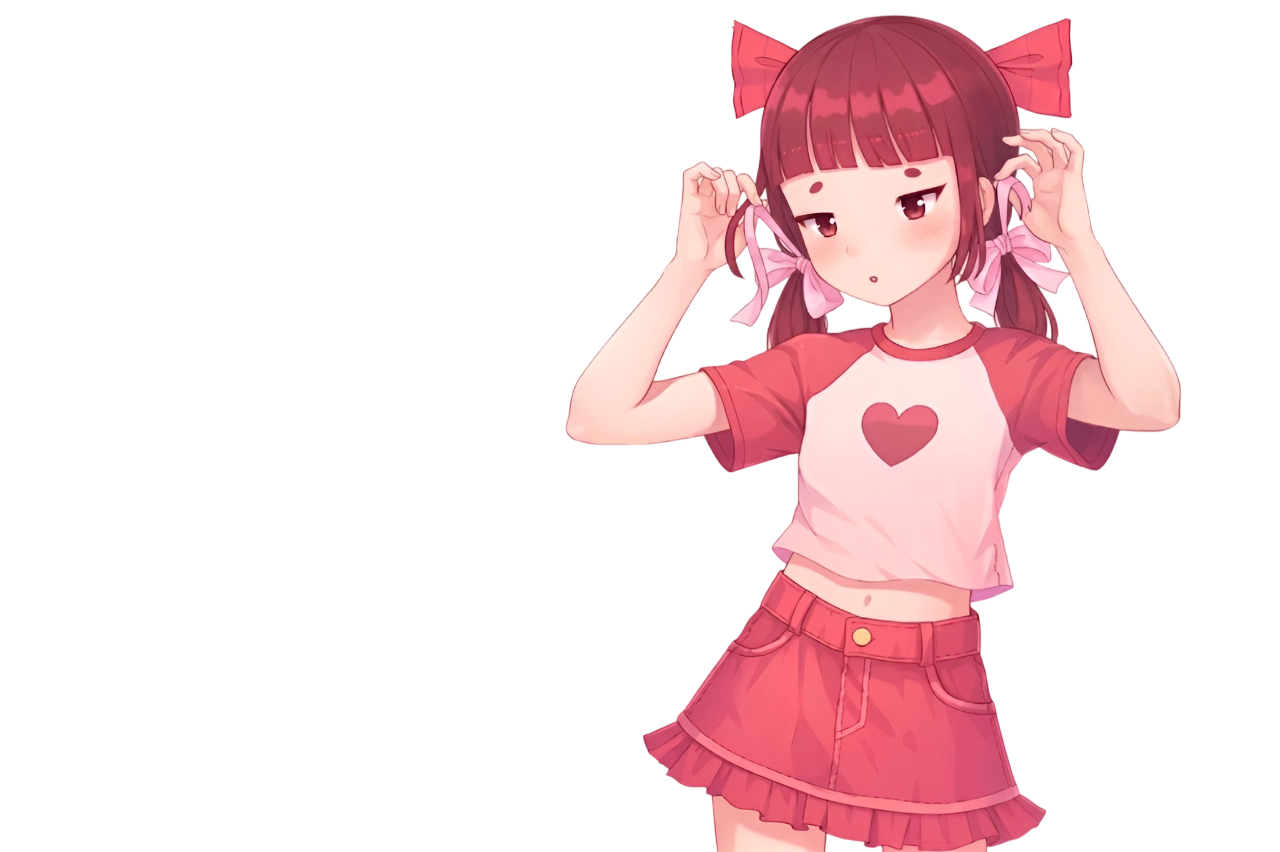
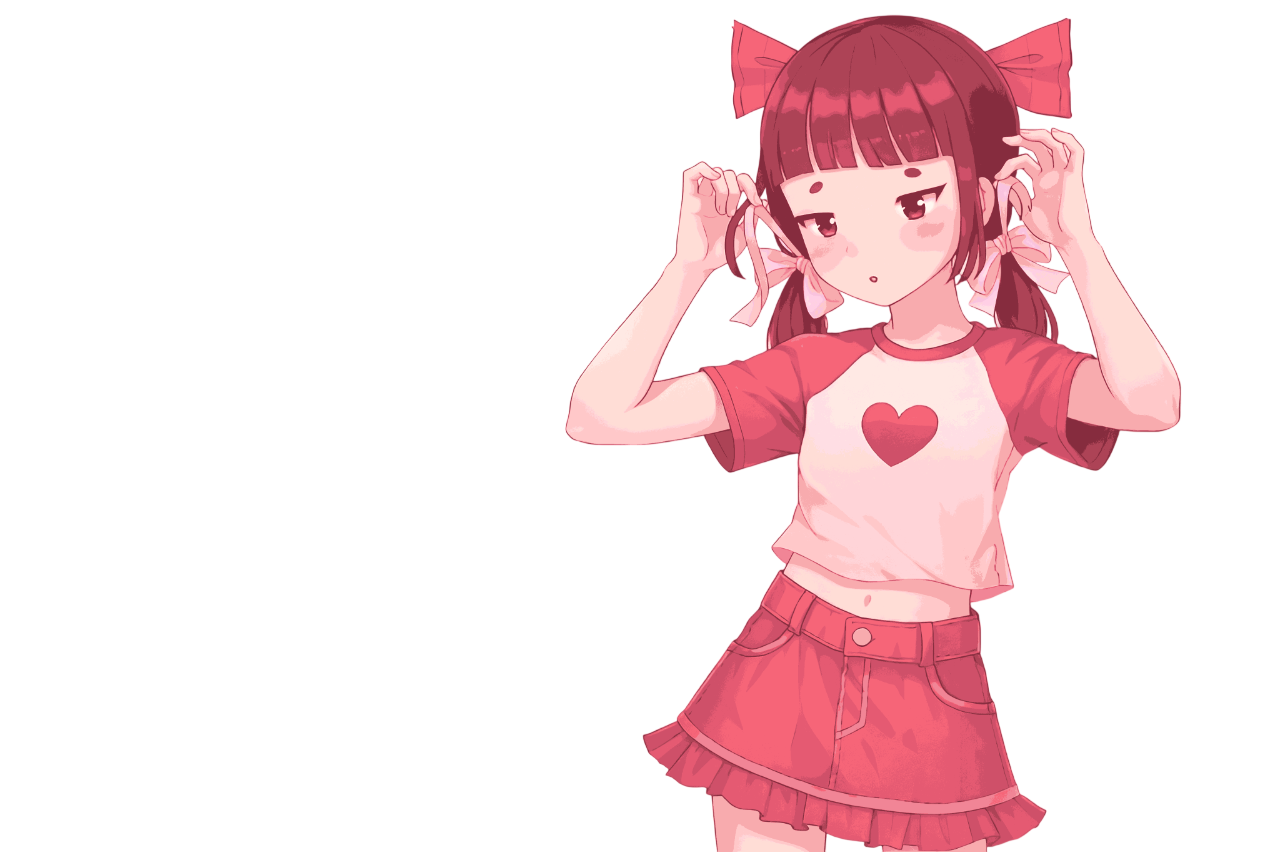
feat: make main character clickable in main menu

diff --git a/MemoryGame.Client/Views/MainMenu/MainMenuView.xaml b/MemoryGame.Client/Views/MainMenu/MainMenuView.xaml
@@ -2,16 +2,63 @@
              xmlns="http://schemas.microsoft.com/winfx/2006/xaml/presentation"
              xmlns:x="http://schemas.microsoft.com/winfx/2006/xaml"
              xmlns:loc="clr-namespace:MemoryGame.Client.Localization"
+             xmlns:controls="clr-namespace:MemoryGame.Client.Views.Controls"
              xmlns:d="http://schemas.microsoft.com/expression/blend/2008"
              xmlns:mc="http://schemas.openxmlformats.org/markup-compatibility/2006"
              mc:Ignorable="d"
              d:DesignWidth="1280" d:DesignHeight="720">
 
     <Grid>
-        <Grid.Background>
-            <ImageBrush ImageSource="/Resources/Images/Backgrounds/katya-main.png"
-                        Stretch="UniformToFill"/>
-        </Grid.Background>
+        <!-- Static background image (with everything including background) -->
+        <Image Source="/Resources/Images/Backgrounds/katya-main-background-only.png" 
+               Stretch="UniformToFill"/>
+
+        <!-- Foreground cutout character image that animates when hovered over -->
+        <controls:AlphaHitTestImage Source="/Resources/Images/Backgrounds/katya-main-no-background.png" 
+               Stretch="UniformToFill" 
+               Cursor="Hand"
+               ToolTip="Story Mode"
+               RenderTransformOrigin="0.5,0.5">
+            <controls:AlphaHitTestImage.InputBindings>
+                <MouseBinding MouseAction="LeftClick" Command="{Binding GoToStoryModeCommand}" />
+            </controls:AlphaHitTestImage.InputBindings>
+            <controls:AlphaHitTestImage.RenderTransform>
+                <ScaleTransform ScaleX="1" ScaleY="1"/>
+            </controls:AlphaHitTestImage.RenderTransform>
+            <controls:AlphaHitTestImage.Style>
+                <Style TargetType="controls:AlphaHitTestImage">
+                    <Style.Triggers>
+                        <!-- When the mouse is inside the MainMenuView, zoom in -->
+                        <Trigger Property="IsMouseOver" Value="True">
+                            <Trigger.EnterActions>
+                                <BeginStoryboard>
+                                    <Storyboard>
+                                        <DoubleAnimation Storyboard.TargetProperty="RenderTransform.ScaleX" To="1.05" Duration="0:0:0.4">
+                                            <DoubleAnimation.EasingFunction>
+                                                <QuadraticEase EasingMode="EaseOut"/>
+                                            </DoubleAnimation.EasingFunction>
+                                        </DoubleAnimation>
+                                        <DoubleAnimation Storyboard.TargetProperty="RenderTransform.ScaleY" To="1.05" Duration="0:0:0.4">
+                                            <DoubleAnimation.EasingFunction>
+                                                <QuadraticEase EasingMode="EaseOut"/>
+                                            </DoubleAnimation.EasingFunction>
+                                        </DoubleAnimation>
+                                    </Storyboard>
+                                </BeginStoryboard>
+                            </Trigger.EnterActions>
+                            <Trigger.ExitActions>
+                                <BeginStoryboard>
+                                    <Storyboard>
+                                        <DoubleAnimation Storyboard.TargetProperty="RenderTransform.ScaleX" To="1.0" Duration="0:0:0.3"/>
+                                        <DoubleAnimation Storyboard.TargetProperty="RenderTransform.ScaleY" To="1.0" Duration="0:0:0.3"/>
+                                    </Storyboard>
+                                </BeginStoryboard>
+                            </Trigger.ExitActions>
+                        </Trigger>
+                    </Style.Triggers>
+                </Style>
+            </controls:AlphaHitTestImage.Style>
+        </controls:AlphaHitTestImage>
 
         <StackPanel HorizontalAlignment="Left"
                     VerticalAlignment="Center"

diff --git a/MemoryGame.Client/Views/Controls/AlphaHitTestImage.cs b/MemoryGame.Client/Views/Controls/AlphaHitTestImage.cs
@@ -1,0 +1,46 @@
+using System;
+using System.Windows;
+using System.Windows.Controls;
+using System.Windows.Media;
+using System.Windows.Media.Imaging;
+
+namespace MemoryGame.Client.Views.Controls;
+
+/// <summary>
+/// An extended Image control that ignores totally transparent pixels when performing mouse hit testing.
+/// This allows for precise hover boundaries on character outlines.
+/// </summary>
+public class AlphaHitTestImage : Image
+{
+    protected override HitTestResult? HitTestCore(PointHitTestParameters hitTestParameters)
+    {
+        var baseResult = base.HitTestCore(hitTestParameters);
+        if (baseResult == null) return null;
+
+        if (Source is not BitmapSource source)
+            return baseResult;
+
+        try
+        {
+            int x = (int)(hitTestParameters.HitPoint.X * source.PixelWidth / ActualWidth);
+            int y = (int)(hitTestParameters.HitPoint.Y * source.PixelHeight / ActualHeight);
+
+            if (x < 0 || x >= source.PixelWidth || y < 0 || y >= source.PixelHeight)
+                return null;
+
+            byte[] pixel = new byte[4];
+            
+            source.CopyPixels(new Int32Rect(x, y, 1, 1), pixel, 4, 0);
+
+            if (pixel[3] < 10)
+            {
+                return null;
+            }
+        }
+        catch (Exception)
+        {
+        }
+
+        return baseResult;
+    }
+}

diff --git a/MemoryGame.Client/ViewModels/MainMenu/MainMenuViewModel.cs b/MemoryGame.Client/ViewModels/MainMenu/MainMenuViewModel.cs
@@ -37,6 +37,12 @@ public partial class MainMenuViewModel : ObservableObject
     }
 
     [RelayCommand]
+    private void GoToStoryMode()
+    {
+        // Placeholder to move to Story Mode view
+    }
+
+    [RelayCommand]
     private async Task LogoutAsync()
     {
         await _hub.DisconnectAsync();
